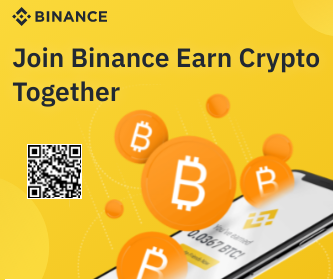
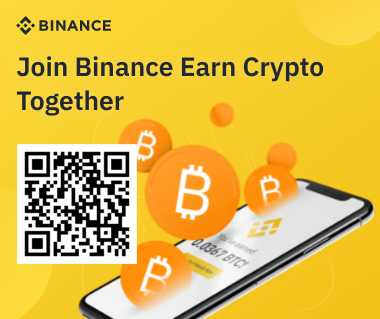
Adjusting readme images.

diff --git a/README.md b/README.md
@@ -88,8 +88,8 @@ So far, these are the available operations:
 
 https://docs.google.com/spreadsheets/d/1AcOcPFsncrDB_ve3wWMHwfiFql6A4hmG1sFc01LLTDg
 
-<img src="img/screenshot-crypto-prices-list.png" alt="Binance to Google Sheets DEMO - Prices list" title="Binance to Google Sheets DEMO - Prices list" width="300"/>
-<img src="img/screenshot-crypto-24h-stats.png" alt="Binance to Google Sheets DEMO - 24h stats" title="Binance to Google Sheets DEMO - 24h stats" width="600"/>
+<img src="img/screenshot-crypto-prices-list.png" alt="Binance to Google Sheets DEMO - Prices list" title="Binance to Google Sheets DEMO - Prices list" width="400"/>
+<img src="img/screenshot-crypto-24h-stats.png" alt="Binance to Google Sheets DEMO - 24h stats" title="Binance to Google Sheets DEMO - 24h stats" width="800"/>
 
 
 ## Some background: Why this tool had ever to come alive?!
@@ -121,7 +121,7 @@ The only _sensitive scope_ provided by Google is:
 Don't you have a **Binance** account yet?  
 Just register there and start trading with its fantastic platform!  
 [https://www.binance.com/en/register?ref=45140860](https://www.binance.com/en/register?ref=45140860)  
-<a href="https://www.binance.com/en/register?ref=45140860" target="_blank"><img src="img/binance-join.png" alt="Join to Binance!" title="Join to Binance!" width="300"/></a>
+<a href="https://www.binance.com/en/register?ref=45140860" target="_blank"><img src="img/binance-join.png" alt="Join to Binance!" title="Join to Binance!"/></a>
 
 
 ## Enjoy - Donate - Buy me a beer!  =]
